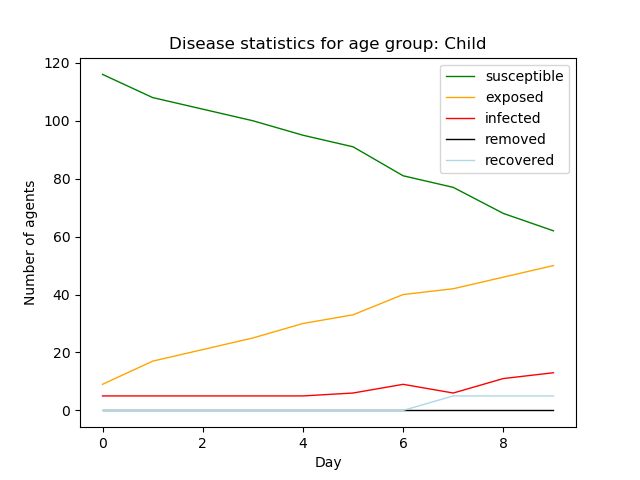
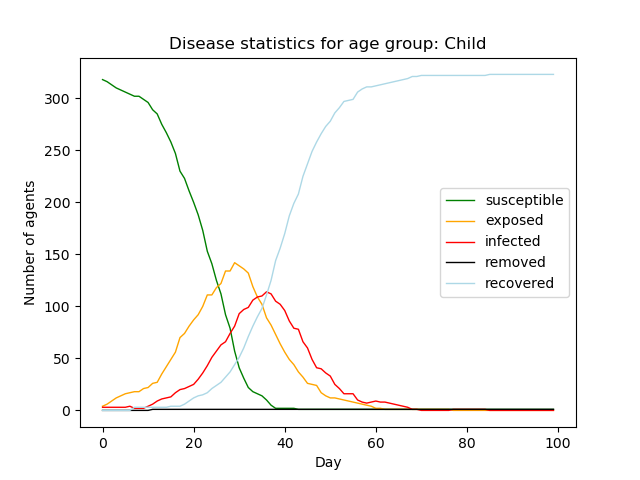
upgrade README.md

diff --git a/launchModel.py b/launchModel.py
@@ -8,7 +8,7 @@ import readchar
 
 
 
-DAYS = 1  # desired days the model will run
+DAYS = 100  # desired days the model will run
 
 
 AGENTS = 1500  # desired agents the model will have

diff --git a/README.md b/README.md
@@ -72,9 +72,9 @@ Those settings can be easily changed by pressing "2" button. The interface will 
 
 At the end of simulation, program prints statistics of each age group as well as of the whole population of agents. Moreover, it saves graphs in the "visualisation/plots/" directory, which might be useful for the further analysis. Example output plots from the baseline experiment (without any restrictions) are presented below:
 
-<img src="visualisation/plots/noMasks_none_none/Overall.png" width="450" > <img src="visualisation/plots/noMasks_none_none/Child.png" width="450" >
-<img src="visualisation/plots/noMasks_none_none/Young.png" width="450" > <img src="visualisation/plots/noMasks_none_none/Adult.png" width="450" >
-<img src="visualisation/plots/noMasks_none_none/Old.png" width="450" > <img src="visualisation/plots/noMasks_none_none/Deaths.png" width="420" >
+<img src="visualisation/plots/noMasks_none_none/Overall.png" width="400" > <img src="visualisation/plots/noMasks_none_none/Child.png" width="400" >
+<img src="visualisation/plots/noMasks_none_none/Young.png" width="400" > <img src="visualisation/plots/noMasks_none_none/Adult.png" width="400" >
+<img src="visualisation/plots/noMasks_none_none/Old.png" width="400" > <img src="visualisation/plots/noMasks_none_none/Deaths.png" width="380" >
 
 ## Authors
 
